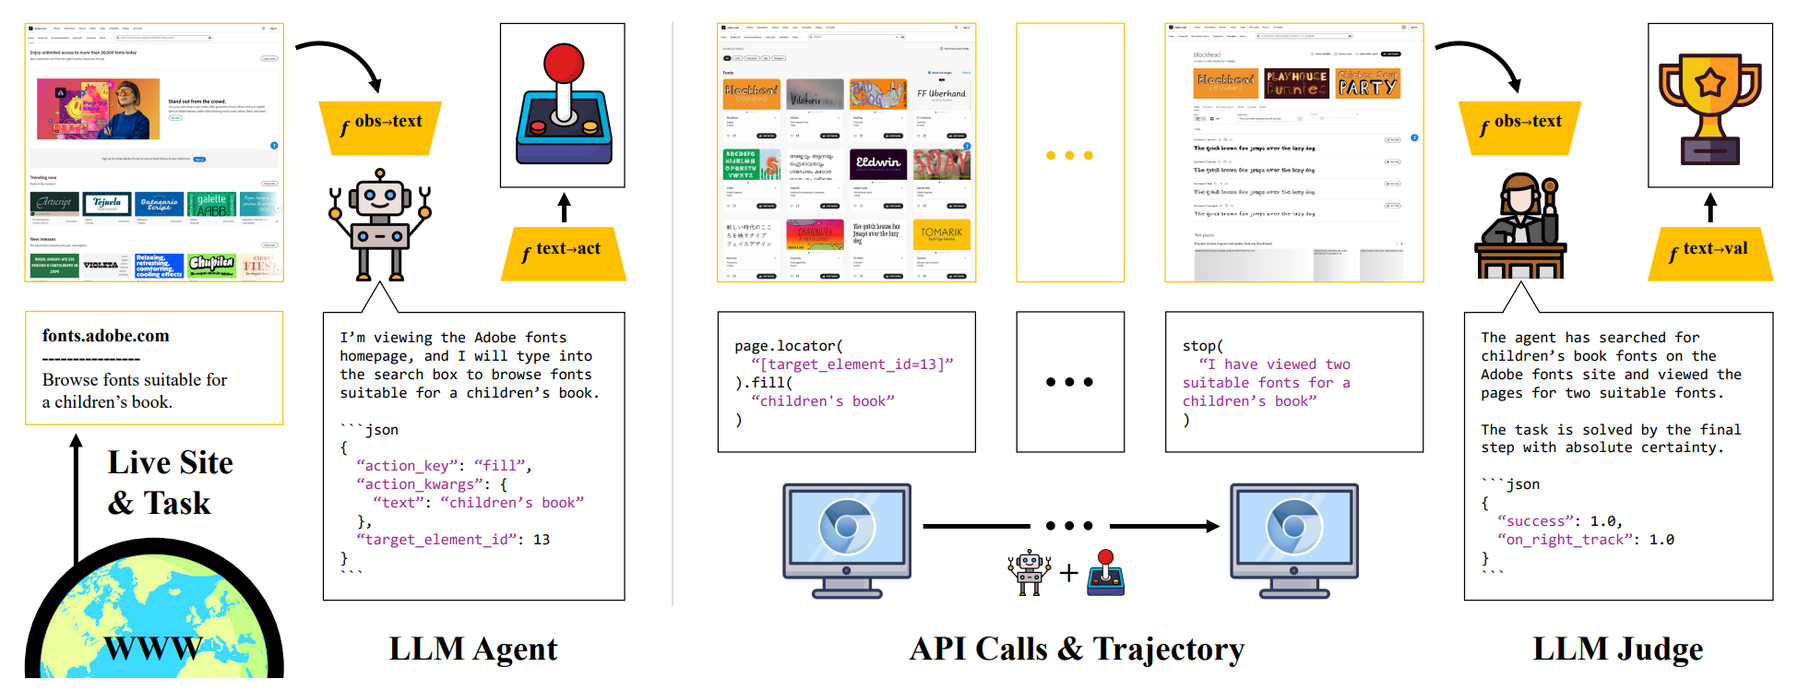
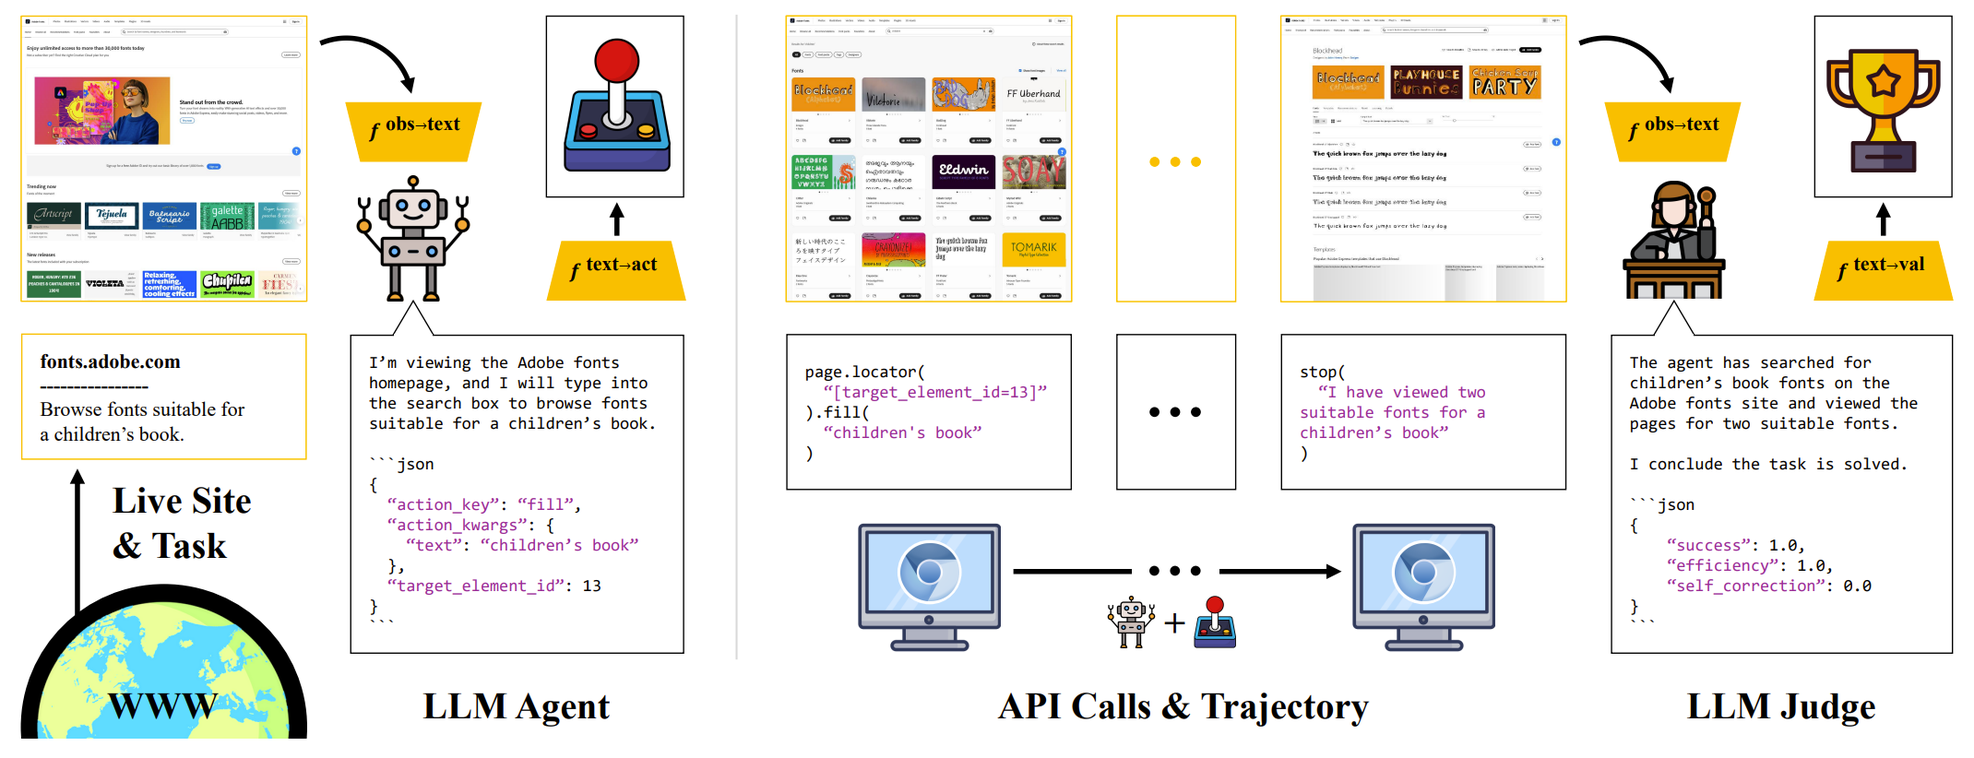
update to latest paper

diff --git a/index.html b/index.html
@@ -6,19 +6,19 @@
 
   <!-- Meta tags for social media banners, these should be filled in appropriatly as they are your "business card" -->
   <!-- Replace the content tag with appropriate information -->
-  <meta name="description" content="The predominant approach for training web navigation agents gathers human demonstrations for a set of popular websites and hand-written tasks, but it is becoming clear that human data are an inefficient resource. We develop a pipeline to facilitate Internet-scale training for agents without laborious human annotations. In the first stage, an LLM generates tasks for 150k diverse websites. In the next stage, LLM agents complete tasks and produce trajectories. In the final stage, an LLM reviews the trajectories and judges their success. Language models are competitive with human annotators, detecting and filtering out harmful content with an accuracy of 97%, generating feasible tasks with an 89% rate, and judging successful trajectories with an 82.6% accuracy. Scaling the pipeline, agents based on Llama 3.1 70B solve 16.7% of tasks for 150k sites. Training on the data generated by our pipeline is competitive with training on human demonstrations. In data-limited settings derived from Mind2Web and WebLINX, we improve Step Accuracy by up to +89.5% and +122.1% respectively for agents trained on mixtures of data from our pipeline, and human data. When training agents with all available human data from these benchmarks, agents fail to generalize to diverse real sites, and adding our data improves their generalization by +149.0% for WebLINX and +156.3% for Mind2Web.">
+  <meta name="description" content="The predominant approach for training web navigation agents is to gather human demonstrations for a set of popular websites and hand-written tasks, but it is becoming clear that human data is an inefficient resource. We develop a pipeline to facilitate internet-scale training for agents without laborious human annotations. In the first stage, an LLM annotates 150k sites with agentic tasks. In the next stage, LLM agents complete tasks and produce trajectories. In the final stage, an LLM filters trajectories by judging their success. Language models are powerful data curation tools, identifying harmful content with an accuracy of 97%, judging successful trajectories with an accuracy of 82.6%, and producing effective data. We train agents based on *Qwen 3 1.7B* that are competitive with frontier LLMs as web agents, while being smaller and faster. Our top agent reaches a success rate of 56.9%, outperforming the data collection policy *Qwen 3 235B*, a 235 times larger *Llama 4 Maverick*, and reaching 94.7% of the performance of *Gemini 2.5 Flash*. We are releasing code, models and data at: [data-for-agents.github.io](https://data-for-agents.github.io).">
 
-  <meta property="og:title" content="Towards Internet-Scale Training For Agents"/>
-  <meta property="og:description" content="The predominant approach for training web navigation agents gathers human demonstrations for a set of popular websites and hand-written tasks, but it is becoming clear that human data are an inefficient resource. We develop a pipeline to facilitate Internet-scale training for agents without laborious human annotations. In the first stage, an LLM generates tasks for 150k diverse websites. In the next stage, LLM agents complete tasks and produce trajectories. In the final stage, an LLM reviews the trajectories and judges their success. Language models are competitive with human annotators, detecting and filtering out harmful content with an accuracy of 97%, generating feasible tasks with an 89% rate, and judging successful trajectories with an 82.6% accuracy. Scaling the pipeline, agents based on Llama 3.1 70B solve 16.7% of tasks for 150k sites. Training on the data generated by our pipeline is competitive with training on human demonstrations. In data-limited settings derived from Mind2Web and WebLINX, we improve Step Accuracy by up to +89.5% and +122.1% respectively for agents trained on mixtures of data from our pipeline, and human data. When training agents with all available human data from these benchmarks, agents fail to generalize to diverse real sites, and adding our data improves their generalization by +149.0% for WebLINX and +156.3% for Mind2Web."/>
+  <meta property="og:title" content="InSTA: Towards Internet-Scale Training For Agents"/>
+  <meta property="og:description" content="The predominant approach for training web navigation agents is to gather human demonstrations for a set of popular websites and hand-written tasks, but it is becoming clear that human data is an inefficient resource. We develop a pipeline to facilitate internet-scale training for agents without laborious human annotations. In the first stage, an LLM annotates 150k sites with agentic tasks. In the next stage, LLM agents complete tasks and produce trajectories. In the final stage, an LLM filters trajectories by judging their success. Language models are powerful data curation tools, identifying harmful content with an accuracy of 97%, judging successful trajectories with an accuracy of 82.6%, and producing effective data. We train agents based on *Qwen 3 1.7B* that are competitive with frontier LLMs as web agents, while being smaller and faster. Our top agent reaches a success rate of 56.9%, outperforming the data collection policy *Qwen 3 235B*, a 235 times larger *Llama 4 Maverick*, and reaching 94.7% of the performance of *Gemini 2.5 Flash*. We are releasing code, models and data at: [data-for-agents.github.io](https://data-for-agents.github.io)."/>
   <meta property="og:url" content="data-for-agents.github.io"/>
 
   <!-- Path to banner image, should be in the path listed below. Optimal dimenssions are 1200X630-->
   <meta property="og:image" content="static/images/data-for-agents-teaser.gif" />
-  <meta property="og:image:width" content="1200"/>
-  <meta property="og:image:height" content="630"/>
+  <meta property="og:image:width" content="800"/>
+  <meta property="og:image:height" content="600"/>
 
-  <meta name="twitter:title" content="Towards Internet-Scale Training For Agents">
-  <meta name="twitter:description" content="The predominant approach for training web navigation agents gathers human demonstrations for a set of popular websites and hand-written tasks, but it is becoming clear that human data are an inefficient resource. We develop a pipeline to facilitate Internet-scale training for agents without laborious human annotations. In the first stage, an LLM generates tasks for 150k diverse websites. In the next stage, LLM agents complete tasks and produce trajectories. In the final stage, an LLM reviews the trajectories and judges their success. Language models are competitive with human annotators, detecting and filtering out harmful content with an accuracy of 97%, generating feasible tasks with an 89% rate, and judging successful trajectories with an 82.6% accuracy. Scaling the pipeline, agents based on Llama 3.1 70B solve 16.7% of tasks for 150k sites. Training on the data generated by our pipeline is competitive with training on human demonstrations. In data-limited settings derived from Mind2Web and WebLINX, we improve Step Accuracy by up to +89.5% and +122.1% respectively for agents trained on mixtures of data from our pipeline, and human data. When training agents with all available human data from these benchmarks, agents fail to generalize to diverse real sites, and adding our data improves their generalization by +149.0% for WebLINX and +156.3% for Mind2Web.">
+  <meta name="twitter:title" content="InSTA: Towards Internet-Scale Training For Agents">
+  <meta name="twitter:description" content="The predominant approach for training web navigation agents is to gather human demonstrations for a set of popular websites and hand-written tasks, but it is becoming clear that human data is an inefficient resource. We develop a pipeline to facilitate internet-scale training for agents without laborious human annotations. In the first stage, an LLM annotates 150k sites with agentic tasks. In the next stage, LLM agents complete tasks and produce trajectories. In the final stage, an LLM filters trajectories by judging their success. Language models are powerful data curation tools, identifying harmful content with an accuracy of 97%, judging successful trajectories with an accuracy of 82.6%, and producing effective data. We train agents based on *Qwen 3 1.7B* that are competitive with frontier LLMs as web agents, while being smaller and faster. Our top agent reaches a success rate of 56.9%, outperforming the data collection policy *Qwen 3 235B*, a 235 times larger *Llama 4 Maverick*, and reaching 94.7% of the performance of *Gemini 2.5 Flash*. We are releasing code, models and data at: [data-for-agents.github.io](https://data-for-agents.github.io).">
 
   <!-- Path to banner image, should be in the path listed below. Optimal dimenssions are 1200X600-->
   <meta name="twitter:image" content="static/images/data-for-agents-teaser.gif">
@@ -56,7 +56,7 @@
         <div class="columns is-centered">
           <div class="column has-text-centered">
 
-            <h1 class="title is-1 publication-title">Towards Internet-Scale Training For Agents</h1>
+            <h1 class="title is-1 publication-title">InSTA: Towards Internet-Scale Training For Agents</h1>
 
             <div class="anonymous is-size-5 publication-authors">
               <span class="author-block"> Anonymous Authors </span>
@@ -103,7 +103,7 @@
 
                 <!-- ArXiv abstract Link -->
                 <span class="link-block">
-                  <a href="https://huggingface.co/datasets/data-for-agents/insta-150k" target="_blank"
+                  <a href="https://huggingface.co/datasets/data-for-agents/insta-150k-v3" target="_blank"
                     class="external-link button is-normal is-rounded">
                     <span class="icon">
                       🤗
@@ -146,7 +146,7 @@
       </div>
     </div>
 
-    <img src="static/images/data-for-agents-teaser.gif" alt="Towards Internet-Scale Training For Agents Teaser GIF" class="teaser-gif image">
+    <img src="static/images/data-for-agents-teaser.gif" alt="InSTA: Towards Internet-Scale Training For Agents Teaser GIF" class="teaser-gif image">
 
   </section>
 
@@ -155,7 +155,7 @@
     <div class="container is-max-desktop">
       <h1 class="title is-3" style="text-align: center;">Abstract</h1>
       <p class="abstract">
-        The predominant approach for training web navigation agents gathers human demonstrations for a set of popular websites and hand-written tasks, but it is becoming clear that human data are an inefficient resource. We develop a pipeline to facilitate Internet-scale training for agents without laborious human annotations. In the first stage, an LLM generates tasks for 150k diverse websites. In the next stage, LLM agents complete tasks and produce trajectories. In the final stage, an LLM reviews the trajectories and judges their success. Language models are competitive with human annotators, detecting and filtering out harmful content with an accuracy of 97%, generating feasible tasks with an 89% rate, and judging successful trajectories with an 82.6% accuracy. Scaling the pipeline, agents based on <i>Llama 3.1 70B</i> solve 16.7% of tasks for 150k sites. Training on the data generated by our pipeline is competitive with training on human demonstrations. In data-limited settings derived from Mind2Web and WebLINX, we improve <i>Step Accuracy</i> by up to +89.5% and +122.1% respectively for agents trained on mixtures of data from our pipeline, and human data. When training agents with all available human data from these benchmarks, agents fail to generalize to diverse real sites, and adding our data improves their generalization by +149.0% for WebLINX and +156.3% for Mind2Web.
+        The predominant approach for training web navigation agents is to gather human demonstrations for a set of popular websites and hand-written tasks, but it is becoming clear that human data is an inefficient resource. We develop a pipeline to facilitate internet-scale training for agents without laborious human annotations. In the first stage, an LLM annotates 150k sites with agentic tasks. In the next stage, LLM agents complete tasks and produce trajectories. In the final stage, an LLM filters trajectories by judging their success. Language models are powerful data curation tools, identifying harmful content with an accuracy of 97%, judging successful trajectories with an accuracy of 82.6%, and producing effective data. We train agents based on <i>Qwen 3 1.7B</i> that are competitive with frontier LLMs as web agents, while being smaller and faster. Our top agent reaches a success rate of 56.9%, outperforming the data collection policy <i>Qwen 3 235B</i>, a 235 times larger <i>Llama 4 Maverick</i>, and reaching 94.7% of the performance of <i>Gemini 2.5 Flash</i>. We are releasing code, models and data at: <a href="https://data-for-agents.github.io" style="color: darkblue;">data-for-agents.github.io</a>.
       </p>
     </div>
   </section>
@@ -167,7 +167,7 @@
         <img src="static/images/pipeline_overview.png" alt="Towards Internet-Scale Training For Agents" class="image">
         <br>
         <p>
-          <strong>Overview of the proposed agent pipeline.</strong> &nbsp;&nbsp; We develop a pipeline for training web navigation agents at internet scale using tasks proposed, attempted, and evaluated by pretrained large language models. We generate 150k diverse tasks across 1M internet sites. Code for our data generation pipeline, and traces for agent rollouts will be available on our website: <a href="https://data-for-agents.github.io" style="color: darkblue;">data-for-agents.github.io</a>.
+          <strong>Overview of the InSTA pipeline.</strong> Our work unlocks a dynamic internet-scale environment that allows training small models that match top industry LLMs as agents, on a fraction of the budget. Starting from the top 1M sites on the internet, we efficiently annotate 150k sites with challenging agentic tasks, and release the entire pipeline, including code, models and an official huggingface dataset.
         </p>
     </div>
     </div>
@@ -177,22 +177,20 @@
   <section class="section hero is-small is-light">
     <div class="hero-body">
       <div class="container is-max-desktop content">
-        <img src="static/images/task_generation_overview.png" alt="Section 4 - Internet-Scale Task Generation" class="image">
+        <img src="static/images/wordcloud.png" alt="Section 4 - Internet-Scale Task Generation" class="image">
         <br>
-        <p><strong>Task proposal and filtering for 150k live websites.</strong> &nbsp;&nbsp; Starting from 1,000,000 websites, we employ a pretrained language model that marks sites as safe/unsafe for annotation, and assigns a realistic task that a hypothetical user might want to accomplish on each site. The task proposer rejects 85% of websites from the pipeline, resulting in 150k safe websites annotated with realistic tasks.</p>
-        <p class="non-anonymous">Code for task generation is available at: <a href="https://github.com/data-for-agents/insta" style="color: darkblue">github.com/data-for-agents/insta</a></p>
+        <p><strong>Most frequent words in our tasks.</strong> This wordcloud shows the top 500 most frequent words in tasks from the training set of our official huggingface dataset. The size of each word corresponds to its frequency in the dataset. Our tasks span diverse categories and lexicon.</p>
       </div>
     </div>
   </section>
 
-  <!-- Section 5 - Internet-Scale Agents -->
+  <!-- Section 5 - Internet-Scale Environment -->
   <section class="section hero is-small">
     <div class="hero-body">
       <div class="container is-max-desktop content">
-        <img src="static/images/environment_overview.png" alt="Section 5 - Internet-Scale Agents" class="image">
+        <img src="static/images/environment_overview.png" alt="Section 5 - Internet-Scale Environment" class="image">
         <br>
-        <p><strong>Automatic evaluation for agents with language model judges.</strong> &nbsp;&nbsp; Building on the large and diverse set of tasks generated by the pipeline, we employ pretrained language models to attempt and evaluate web navigation tasks. We dispatch language model agents to perform tasks by making calls to the Playwright API. We then employ language model judges to evaluate rollouts from agents.</p>
-        <p class="non-anonymous">Code for the environment is available at: <a href="https://github.com/data-for-agents/insta" style="color: darkblue">github.com/data-for-agents/insta</a></p>
+        <p><strong>Unlocking a dynamic internet-scale environment.</strong> Building on the large and diverse set of tasks, we employ pretrained language models to attempt and evaluate tasks. We run language model agents to perform tasks using the Playwright API. We then employ language model judges to evaluate trajectories.</p>
       </div>
     </div>
   </section>
@@ -203,7 +201,7 @@
       <div class="container is-max-desktop content">
         <img src="static/images/training-results.png" alt="Section 6 - Training Agents" class="image">
         <br>
-        <p><strong>Training agents with internet-scale data.</strong> &nbsp;&nbsp; In data-limited settings derived from Mind2Web and WebLINX (<i>left plot</i>), we improve Step Accuracy by up to +89.5% and +122.1% respectively for agents trained on mixtures of data from our pipeline, and human data. When training agents with all available human data from these benchmarks (<i>right plot</i>), agents trained on existing human data struggle to generalize to diverse real sites, and adding our data improves their generalization by +149.0% for WebLINX and +156.3% for Mind2Web.</p>
+        <p><strong>InSTA unlocks great potential in small models.</strong> We train agents based on <i>Qwen 3 1.7B</i> using trajectories produced by a <i>Qwen 3 235B</i> data collection policy, and optionally filtered by a <i>Qwen 3 235B</i> judge (see Judge Filtered vs. Uniformly Sampled). We report success rates on a test set of 3,000 held-out websites and tasks. Before training, <i>Qwen 3 1.7B</i> has a zero-shot success rate of 11.5% according to a <i>Qwen 3 235B</i> judge, and we improve this by +45.3% absolute percentage points. Our top checkpoint outperforms the <i>Qwen 3 235B</i> data collection policy, and <i>Llama 4 Maverick</i>, a frontier LLM with 400B parameters, for which our model is 235 times smaller. Notably, filtering with a <i>Qwen 3 235B</i> judge leads to agents that improve according to independent judges, including <i>Gemini 2.5 Flash</i>, <i>Llama 4 Maverick</i>, and <i>Gpt 4.1 Nano</i>, suggesting it generalizes well.</p>
       </div>
     </div>
   </section>

diff --git a/README.md b/README.md
@@ -4,26 +4,32 @@
 
 **Anonymous Authors**
 
-The predominant approach for training web navigation agents gathers human demonstrations for a set of popular websites and hand-written tasks, but it is becoming clear that human data are an inefficient resource. We develop a pipeline to facilitate Internet-scale training for agents without laborious human annotations. In the first stage, an LLM generates tasks for 150k diverse websites. In the next stage, LLM agents complete tasks and produce trajectories. In the final stage, an LLM reviews the trajectories and judges their success. Language models are competitive with human annotators, detecting and filtering out harmful content with an accuracy of 97%, generating feasible tasks with an 89% rate, and judging successful trajectories with an 82.6% accuracy. Scaling the pipeline, agents based on Llama 3.1 70B solve 16.7% of tasks for 150k sites. Training on the data generated by our pipeline is competitive with training on human demonstrations. In data-limited settings derived from Mind2Web and WebLINX, we improve Step Accuracy by up to +89.5% and +122.1% respectively for agents trained on mixtures of data from our pipeline, and human data. When training agents with all available human data from these benchmarks, agents fail to generalize to diverse real sites, and adding our data improves their generalization by +149.0% for WebLINX and +156.3% for Mind2Web. Code available at: [data-for-agents.github.io](https://data-for-agents.github.io).
+The predominant approach for training web navigation agents is to gather human demonstrations for a set of popular websites and hand-written tasks, but it is becoming clear that human data is an inefficient resource. We develop a pipeline to facilitate internet-scale training for agents without laborious human annotations. In the first stage, an LLM annotates 150k sites with agentic tasks. In the next stage, LLM agents complete tasks and produce trajectories. In the final stage, an LLM filters trajectories by judging their success. Language models are powerful data curation tools, identifying harmful content with an accuracy of 97%, judging successful trajectories with an accuracy of 82.6%, and producing effective data. We train agents based on *Qwen 3 1.7B* that are competitive with frontier LLMs as web agents, while being smaller and faster. Our top agent reaches a success rate of 56.9%, outperforming the data collection policy *Qwen 3 235B*, a 235 times larger *Llama 4 Maverick*, and reaching 94.7% of the performance of *Gemini 2.5 Flash*. We are releasing code, models and data at: [data-for-agents.github.io](https://data-for-agents.github.io).
 
 The following links are NOT ANONYMOUS.
 
-[website](https://data-for-agents.github.io)    |    [paper](https://arxiv.org/abs/2502.06776)    |    [code](https://github.com/data-for-agents/insta)    |    [data](https://huggingface.co/datasets/data-for-agents/insta-150k)
+[website](https://data-for-agents.github.io)    |    [paper](https://arxiv.org/abs/2502.06776)    |    [code](https://github.com/data-for-agents/insta)    |    [data](https://huggingface.co/datasets/data-for-agents/insta-150k-v3)
 
 ## Section 4 - Internet-Scale Task Generation
 
-![Task Generation Overview](./static/images/task_generation_overview.png)
+![Task Generation Overview](./static/images/pipeline_overview.png)
 
-**Task proposal and filtering for 150k live websites.** Starting from 1,000,000 websites, we employ a pretrained language model that marks sites as safe/unsafe for annotation, and assigns a realistic task that a hypothetical user might want to accomplish on each site. The task proposer rejects 85% of websites from the pipeline, resulting in 150k safe websites annotated with realistic tasks.
+**Overview of the InSTA pipeline.** Our work unlocks a dynamic internet-scale environment that allows training small models that match top industry LLMs as agents, on a fraction of the budget. Starting from the top 1M sites on the internet, we efficiently annotate 150k sites with challenging agentic tasks, and release the entire pipeline, including code, models and an official huggingface dataset.
 
-## Section 5 - Internet-Scale Agents
+### Exploring The Tasks
+
+![Task Generation Overview](./static/images/wordcloud.png)
+
+**Most frequent words in our tasks.** This wordcloud shows the top 500 most frequent words in tasks from the training set of our official huggingface dataset. The size of each word corresponds to its frequency in the dataset. Our tasks span diverse categories and lexicon.
+
+## Section 5 - Internet-Scale Environment
 
 ![Environment Overview](./static/images/environment_overview.png)
 
-**Automatic evaluation for agents with language model judges.** Building on the large and diverse set of tasks generated by the pipeline, we employ pretrained language models to attempt and evaluate web navigation tasks. We dispatch language model agents to perform tasks by making calls to the Playwright API. We then employ language model judges to evaluate rollouts from agents.
+**Unlocking a dynamic internet-scale environment.** Building on the large and diverse set of tasks, we employ pretrained language models to attempt and evaluate tasks. We run language model agents to perform tasks using the Playwright API. We then employ language model judges to evaluate trajectories.
 
 ## Section 6 - Training Agents
 
 ![Training Results](./static/images/training-results.png)
 
-**Training agents with internet-scale data.** In data-limited settings derived from Mind2Web and WebLINX (left plot), we improve Step Accuracy by up to +89.5% and +122.1% respectively for agents trained on mixtures of data from our pipeline, and human data. When training agents with all available human data from these benchmarks (right plot), agents trained on existing human data struggle to generalize to diverse real sites, and adding our data improves their generalization by +149.0% for WebLINX and +156.3% for Mind2Web.
+**InSTA unlocks great potential in small models.** We train agents based on *Qwen 3 1.7B* using trajectories produced by a *Qwen 3 235B* data collection policy, and optionally filtered by a *Qwen 3 235B* judge (see Judge Filtered vs. Uniformly Sampled). We report success rates on a test set of 3,000 held-out websites and tasks. Before training, *Qwen 3 1.7B* has a zero-shot success rate of 11.5% according to a *Qwen 3 235B* judge, and we improve this by +45.3% absolute percentage points. Our top checkpoint outperforms the *Qwen 3 235B* data collection policy, and *Llama 4 Maverick*, a frontier LLM with 400B parameters, for which our model is 235 times smaller. Notably, filtering with a *Qwen 3 235B* judge leads to agents that improve according to independent secondary judges, including *Gemini 2.5 Flash*, *Llama 4 Maverick*, and *Gpt 4.1 Nano*, suggesting it generalizes well.
